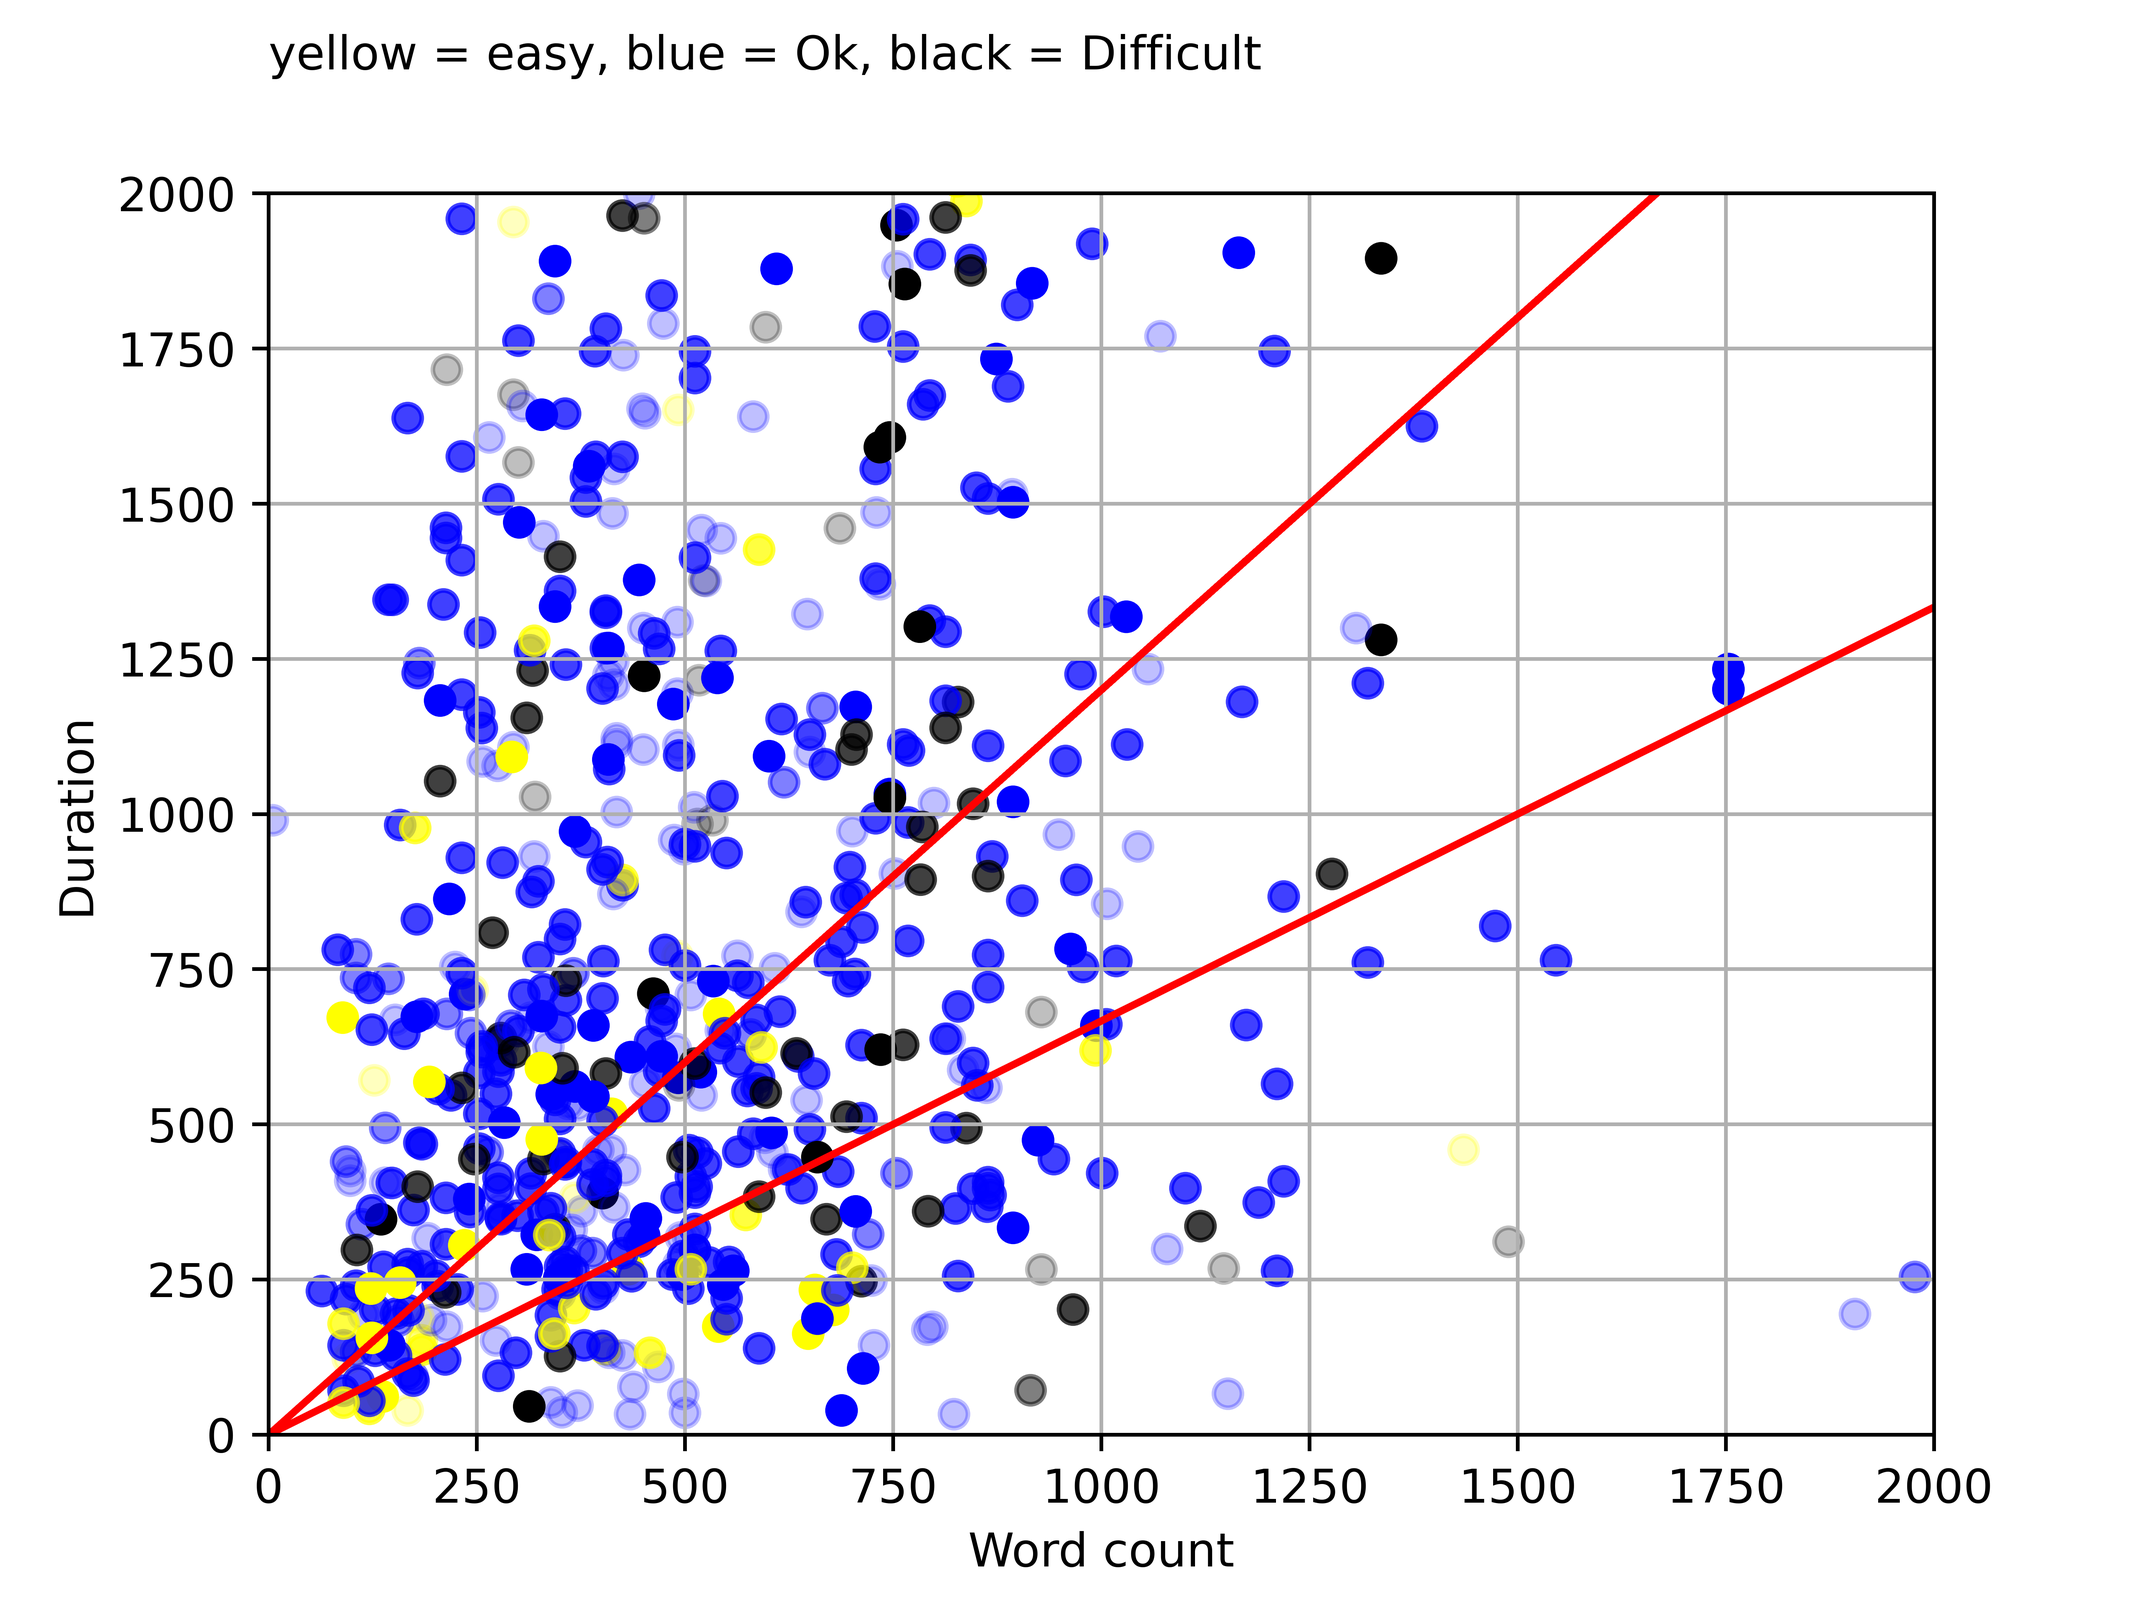
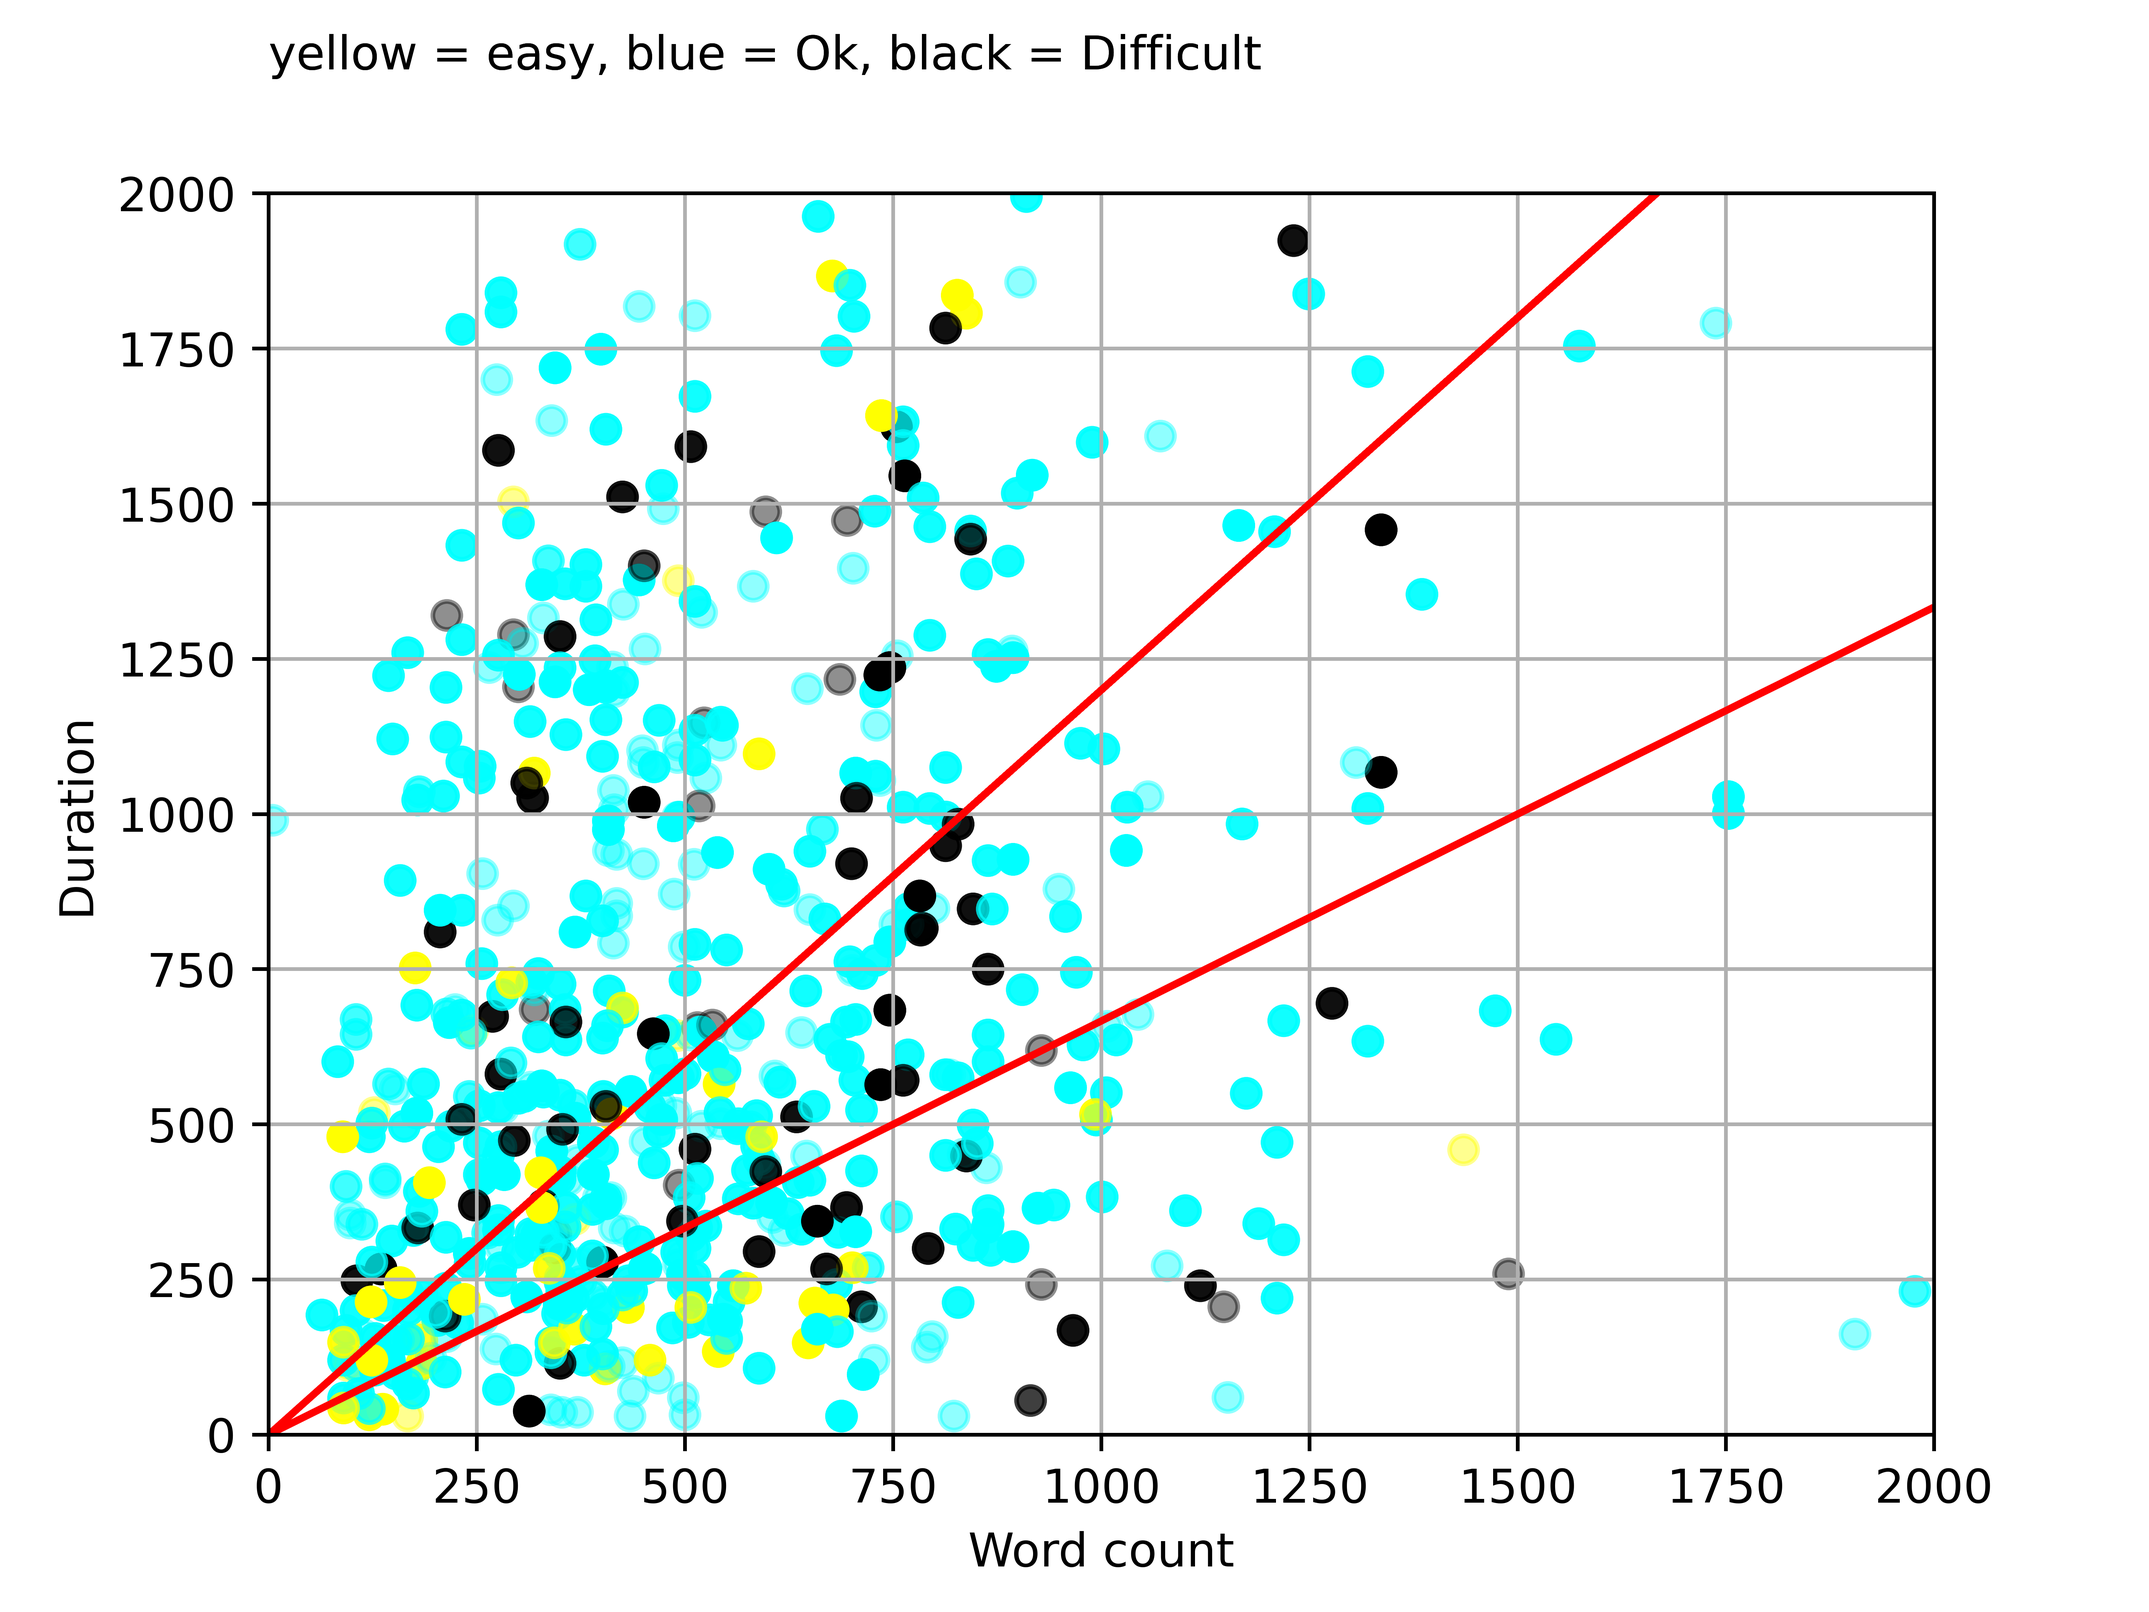
Making things pretty. Hopefully still works

diff --git a/zeeguu/recommender/feedback_matrix.py b/zeeguu/recommender/feedback_matrix.py
@@ -18,9 +18,11 @@ tf.disable_v2_behavior()
 tf.logging.set_verbosity(tf.logging.ERROR)
 
 class FeedbackMatrix:
+    upper_bound_reading_speed = 20
+    lower_bound_reading_speed = -20
+
     tensor = None
     sessions_df = None
-    simple_df = None
     liked_sessions_df = None
     have_read_sessions = None
 
@@ -36,13 +38,10 @@ class FeedbackMatrix:
                 .all()
         )
         return query_data
-    
 
-    def get_sessions_with_likes(self):
+    def get_sessions(self, adjust=True):
         print("Getting sessions with likes")
         sessions = {}
-        liked_sessions = []
-        have_read_sessions = 0
 
         query_data = self.get_all_user_reading_sessions()
 
@@ -62,7 +61,6 @@ class FeedbackMatrix:
                 for topic in article_topic:
                     article_topic_list.append(topic.title)
 
-            
             if (user_id, article_id) not in sessions:
                 sessions[(user_id, article_id)] = {
                     'user_id': user_id,
@@ -80,12 +78,21 @@ class FeedbackMatrix:
             else:
                 sessions[(user_id, article_id)]['user_duration'] += session_duration
 
+        if adjust:
+            return self.adjust_sessions(sessions)
+        else:
+            return sessions, [], 0
+
+    def adjust_sessions(self, sessions):
+        liked_sessions = []
+        have_read_sessions = 0
+
         for session in sessions.keys():
             user_id = session[0]
             article_id = session[1]
 
-            should_spend_reading_lower_bound = get_expected_reading_time(sessions[session]['word_count'], 20)
-            should_spend_reading_upper_bound = get_expected_reading_time(sessions[session]['word_count'], -20)
+            should_spend_reading_lower_bound = get_expected_reading_time(sessions[session]['word_count'], self.upper_bound_reading_speed)
+            should_spend_reading_upper_bound = get_expected_reading_time(sessions[session]['word_count'], self.lower_bound_reading_speed)
 
             user_level = UserLanguage.query.filter_by(user_id = user_id, language_id=sessions[(user_id, article_id)]['language']).filter(UserLanguage.cefr_level.isnot(None)).with_entities(UserLanguage.cefr_level).first()
             if user_level is None or user_level[0] == 0 or user_level[0] is None or user_level[0] == [] or user_level == []:
@@ -104,77 +111,21 @@ class FeedbackMatrix:
             if userDurationWithTranslated <= should_spend_reading_upper_bound and userDurationWithTranslated >= should_spend_reading_lower_bound:
                 have_read_sessions += 1
                 sessions[session]['expected_read'] = 1
+                liked_sessions.append(sessions[session])
             else:
                 continue
 
-
         return sessions, liked_sessions, have_read_sessions
-    
-    def simple_session_df(self):
-        sessions = {}
 
-        query_data = self.get_all_user_reading_sessions()
+    # ------------------- PLOTTING -------------------
 
-        for session in query_data:
-            article_id = session.article_id
-            user_id = session.user_id
-            article = Article.find_by_id(article_id)
-            session_duration = int(session.duration) / 1000 # in seconds
-            liked = UserArticle.query.filter_by(user_id=user_id, article_id=article_id).with_entities(UserArticle.liked).first()
-            liked_value = 0 if liked == (False,) or liked is None else 1 # should check out
-            difficulty_feedback = ArticleDifficultyFeedback.query.filter_by(user_id=user_id, article_id=article_id).with_entities(ArticleDifficultyFeedback.difficulty_feedback).first()
-            difficulty_feedback_value = 0 if difficulty_feedback is None else int(difficulty_feedback[0])
+    def get_diff_color(self, df, precise=False):
+        if precise:
+            return np.where(df['df_feedback'] == 1, 'yellow', np.where(df['df_feedback'] == 3, 'cyan', 'black'))
+        else:
+            return "yellow"
 
-            article_topic = article.topics
-            article_topic_list = []
-            if len(article_topic) > 0:
-                for topic in article_topic:
-                    article_topic_list.append(topic.title)
-
-            
-            if (user_id, article_id) not in sessions:
-                sessions[(user_id, article_id)] = {
-                    'user_id': user_id,
-                    'article_id': article_id,
-                    'user_duration': session_duration,
-                    'language': article.language_id,
-                    'difficulty': article.fk_difficulty,
-                    'word_count': article.word_count,
-                    'topics': article_topic_list,
-                    'expected_read': 0,
-                    'liked': liked_value,
-                    'df_feedback': difficulty_feedback_value,
-                    'days_since': (datetime.now() - session.start_time).days,
-                }
-            else:
-                sessions[(user_id, article_id)]['user_duration'] += session_duration
-
-        #Uncomment this to adjust the user duration with the translated words and cefr lvl
-        """ for session in sessions.keys():
-            user_id = session[0]
-            article_id = session[1]
-
-
-            user_level = UserLanguage.query.filter_by(user_id = user_id, language_id=sessions[(user_id, article_id)]['language']).filter(UserLanguage.cefr_level.isnot(None)).with_entities(UserLanguage.cefr_level).first()
-            if user_level is None or user_level[0] == 0 or user_level[0] is None or user_level[0] == [] or user_level == []:
-                usr_lvl = 1
-            else:
-                usr_lvl = user_level[0]
-
-            diff = sessions[session]['difficulty']
-            calcDiff = switch_difficulty(diff)
-            diff = get_diff_in_article_and_user_level(calcDiff, usr_lvl)
-        
-            timesTranslated = UserActivityData.translated_words_for_article(user_id, article_id)
-            userDurationWithTranslated = (sessions[session]['user_duration'] - (timesTranslated * 3)) * diff
-            sessions[session]['user_duration'] = userDurationWithTranslated  """
-           
-
-            
-        df = pd.DataFrame.from_dict(sessions, orient='index')
-        return df
-
-    def plot_urs_with_duration_and_word_count(self, df, have_read_sessions, file_name):
+    def plot_urs_with_duration_and_word_count(self, df, have_read_sessions, file_name, simple=False):
         x_min, x_max = 0, 2000
         y_min, y_max = 0, 2000
 
@@ -182,16 +133,16 @@ class FeedbackMatrix:
         plt.ylabel('Duration')
 
         expected_read_color = np.where(df['liked'] == 1, 'green', 
-                                    np.where(df['df_feedback'] != 0, np.where(df['df_feedback'] == 1, 'yellow', np.where(df['df_feedback'] == 3, 'cyan', 'black')),
+                                    np.where(df['df_feedback'] != 0, self.get_diff_color(df, simple),
                                         np.where(df['expected_read'] == 1, 'blue', 'red')))
         plt.scatter(df['word_count'], df['user_duration'], alpha=[self.__days_since_to_multiplier(d) for d in df['days_since']], color=expected_read_color)
 
         x_values = df['word_count']
-        y_values_line = [get_expected_reading_time(x, -20) for x in x_values]
+        y_values_line = [get_expected_reading_time(x, self.lower_bound_reading_speed) for x in x_values]
         plt.plot(x_values, y_values_line, color='red', label='y = ')
 
         x_values = df['word_count']
-        y_values_line = [get_expected_reading_time(x, 20) for x in x_values]
+        y_values_line = [get_expected_reading_time(x, self.upper_bound_reading_speed) for x in x_values]
         plt.plot(x_values, y_values_line, color='red', label='y = ')
 
         plt.xlim(x_min, x_max)
@@ -201,42 +152,13 @@ class FeedbackMatrix:
 
         have_read_ratio = have_read_sessions / len(df) * 100
         have_not_read_ratio = 100 - have_read_ratio
-        plt.text(0, 1.1, f"Have read: {have_read_ratio:.2f}%", transform=plt.gca().transAxes)
-        plt.text(0, 1.05, f"Have not read: {have_not_read_ratio:.2f}%", transform=plt.gca().transAxes)
-        plt.text(0, 1.01, f"Green = liked, yellow = easy, cyan = Ok, black = Difficult", transform=plt.gca().transAxes)
+        if have_read_sessions > 0:
+            plt.text(0, 1.1, f"Have read: {have_read_ratio:.2f}%", transform=plt.gca().transAxes)
+            plt.text(0, 1.05, f"Have not read: {have_not_read_ratio:.2f}%", transform=plt.gca().transAxes)
+        if not simple:
+            plt.text(0, 1.01, f"Green = liked, yellow = easy, cyan = Ok, black = Difficult", transform=plt.gca().transAxes)
 
         #Change to '.svg' and format to 'svg' for svg.
-        plt.savefig(file_name + '.png', format='png', dpi=900)
-        print("Saving file: " + file_name + ".png")
-        plt.show()
-
-    def plot_urs_with_feedback_and_wpm(self, df, file_name):
-        x_min, x_max = 0, 2000
-        y_min, y_max = 0, 2000
-
-        filtered_df = df[df['df_feedback'] != 0]
-
-
-        plt.xlabel('Word count')
-        plt.ylabel('Duration')
-        #expected_read_color = np.where(df['df_feedback'] == 0, 'white', np.where(df['df_feedback'] == 1, 'yellow', np.where(df['df_feedback'] == 3, 'blue', 'black')))
-        plt.scatter(filtered_df['word_count'], filtered_df['user_duration'], alpha=[self.__days_since_to_multiplier(d) for d in filtered_df['days_since']], color=np.where(filtered_df['df_feedback'] == 1, 'yellow', np.where(filtered_df['df_feedback'] == 3, 'blue', 'black')))
-
-        x_values = filtered_df['word_count']
-        y_values_line = [get_expected_reading_time(x, -20) for x in x_values]
-        plt.plot(x_values, y_values_line, color='red', label='y = ')
-
-        x_values = filtered_df['word_count']
-        y_values_line = [get_expected_reading_time(x, 20) for x in x_values]
-        plt.plot(x_values, y_values_line, color='red', label='y = ')
-
-        plt.xlim(x_min, x_max)
-        plt.ylim(y_min, y_max)
-        plt.grid(True)
-        plt.rc('axes', axisbelow=True)
-
-        plt.text(0, 1.1, f"yellow = easy, blue = Ok, black = Difficult", transform=plt.gca().transAxes)
-
         plt.savefig(file_name + '.png', format='png', dpi=900)
         print("Saving file: " + file_name + ".png")
         plt.show()
@@ -245,13 +167,14 @@ class FeedbackMatrix:
         print("Plotting sessions. Saving to file: " + name + ".png")
         self.plot_urs_with_duration_and_word_count(self.sessions_df, self.have_read_sessions, name)
 
-
     def plot_difficulty_sessions_df(self, name):
         print("Plotting difficulty sessions. Saving to file: " + name + ".png")
-        self.plot_urs_with_feedback_and_wpm(self.simple_df, name)
+        self.plot_urs_with_duration_and_word_count(self.sessions_df[self.sessions_df['df_feedback'] != 0], 0, name, True)
 
-    def calc_dfs(self):
-        sessions, liked_sessions, have_read_sessions = self.get_sessions_with_likes()
+    # ------------------- END PLOTTING -------------------
+
+    def generate_dfs(self):
+        sessions, liked_sessions, have_read_sessions = self.get_sessions()
         df = self.__session_map_to_df(sessions)
         liked_df = self.__session_list_to_df(liked_sessions)
 
@@ -259,15 +182,16 @@ class FeedbackMatrix:
         self.liked_sessions_df = liked_df
         self.have_read_sessions = have_read_sessions
 
-    def calc_simple_df(self):
-        df = self.simple_session_df()
-        self.simple_df = df
+    def generate_simple_df(self):
+        sessions, _, _ = self.get_sessions(False)
+        df = self.__session_map_to_df(sessions)
+
+        self.sessions_df = df
 
     def build_sparse_tensor(self, force=False):
-        # This function is not run in the constructor because it takes such a long time to run. 
-        # Also, the feedback matrix is only updated during training, so we need to be able to explicitly state when it should be called.
+        # This function is not run in the constructor because it takes such a long time to run.
         if (self.liked_sessions_df is None or self.sessions_df is None or self.have_read_sessions is None) or force:
-            self.calc_dfs()
+            self.generate_dfs()
         indices = self.sessions_df[['user_id', 'article_id']].values
         values = self.sessions_df['liked'].values
         num_of_users = User.num_of_users()
@@ -297,6 +221,4 @@ class FeedbackMatrix:
             return 0.75
         elif days_since < 365 * 3/4:
             return 0.5
-        elif days_since < 365:
-            return 0.25
-        return 0
+        return 0.25

diff --git a/tools/_playground.py b/tools/_playground.py
@@ -19,13 +19,13 @@ print("Running playground")
 print("before the function")
 
 matrix = FeedbackMatrix()
-matrix.calc_dfs()
-matrix.plot_sessions_df("sessions")
+matrix.generate_dfs()
+#matrix.plot_sessions_df("sessions")
 
 
 # These are to just make a simple Dataframe that can be used for testing difficulty
-#matrix.calc_simple_df()
-#matrix.plot_difficulty_sessions_df("difficulty_sessions")
+#matrix.generate_simple_df()
+matrix.plot_difficulty_sessions_df("difficulty_sessions")
 #matrix.plot_difficulty_sessions_df("difficulty_sessions_with_adjustment")
 
 

diff --git a/zeeguu/recommender/utils.py b/zeeguu/recommender/utils.py
@@ -1,7 +1,9 @@
+average_reading_speed = 70
+
 def get_expected_reading_time(word_count, offset):
     # The higher the offset is, the higher we want the WPM to be. When WPM is larger, the user is expected to be able to read faster.
     # Thus, high offset/WPM = low expected reading time.
-    return (word_count / (70 + offset)) * 60
+    return (word_count / (average_reading_speed + offset)) * 60
 
 def switch_difficulty(number):
     result = 0
